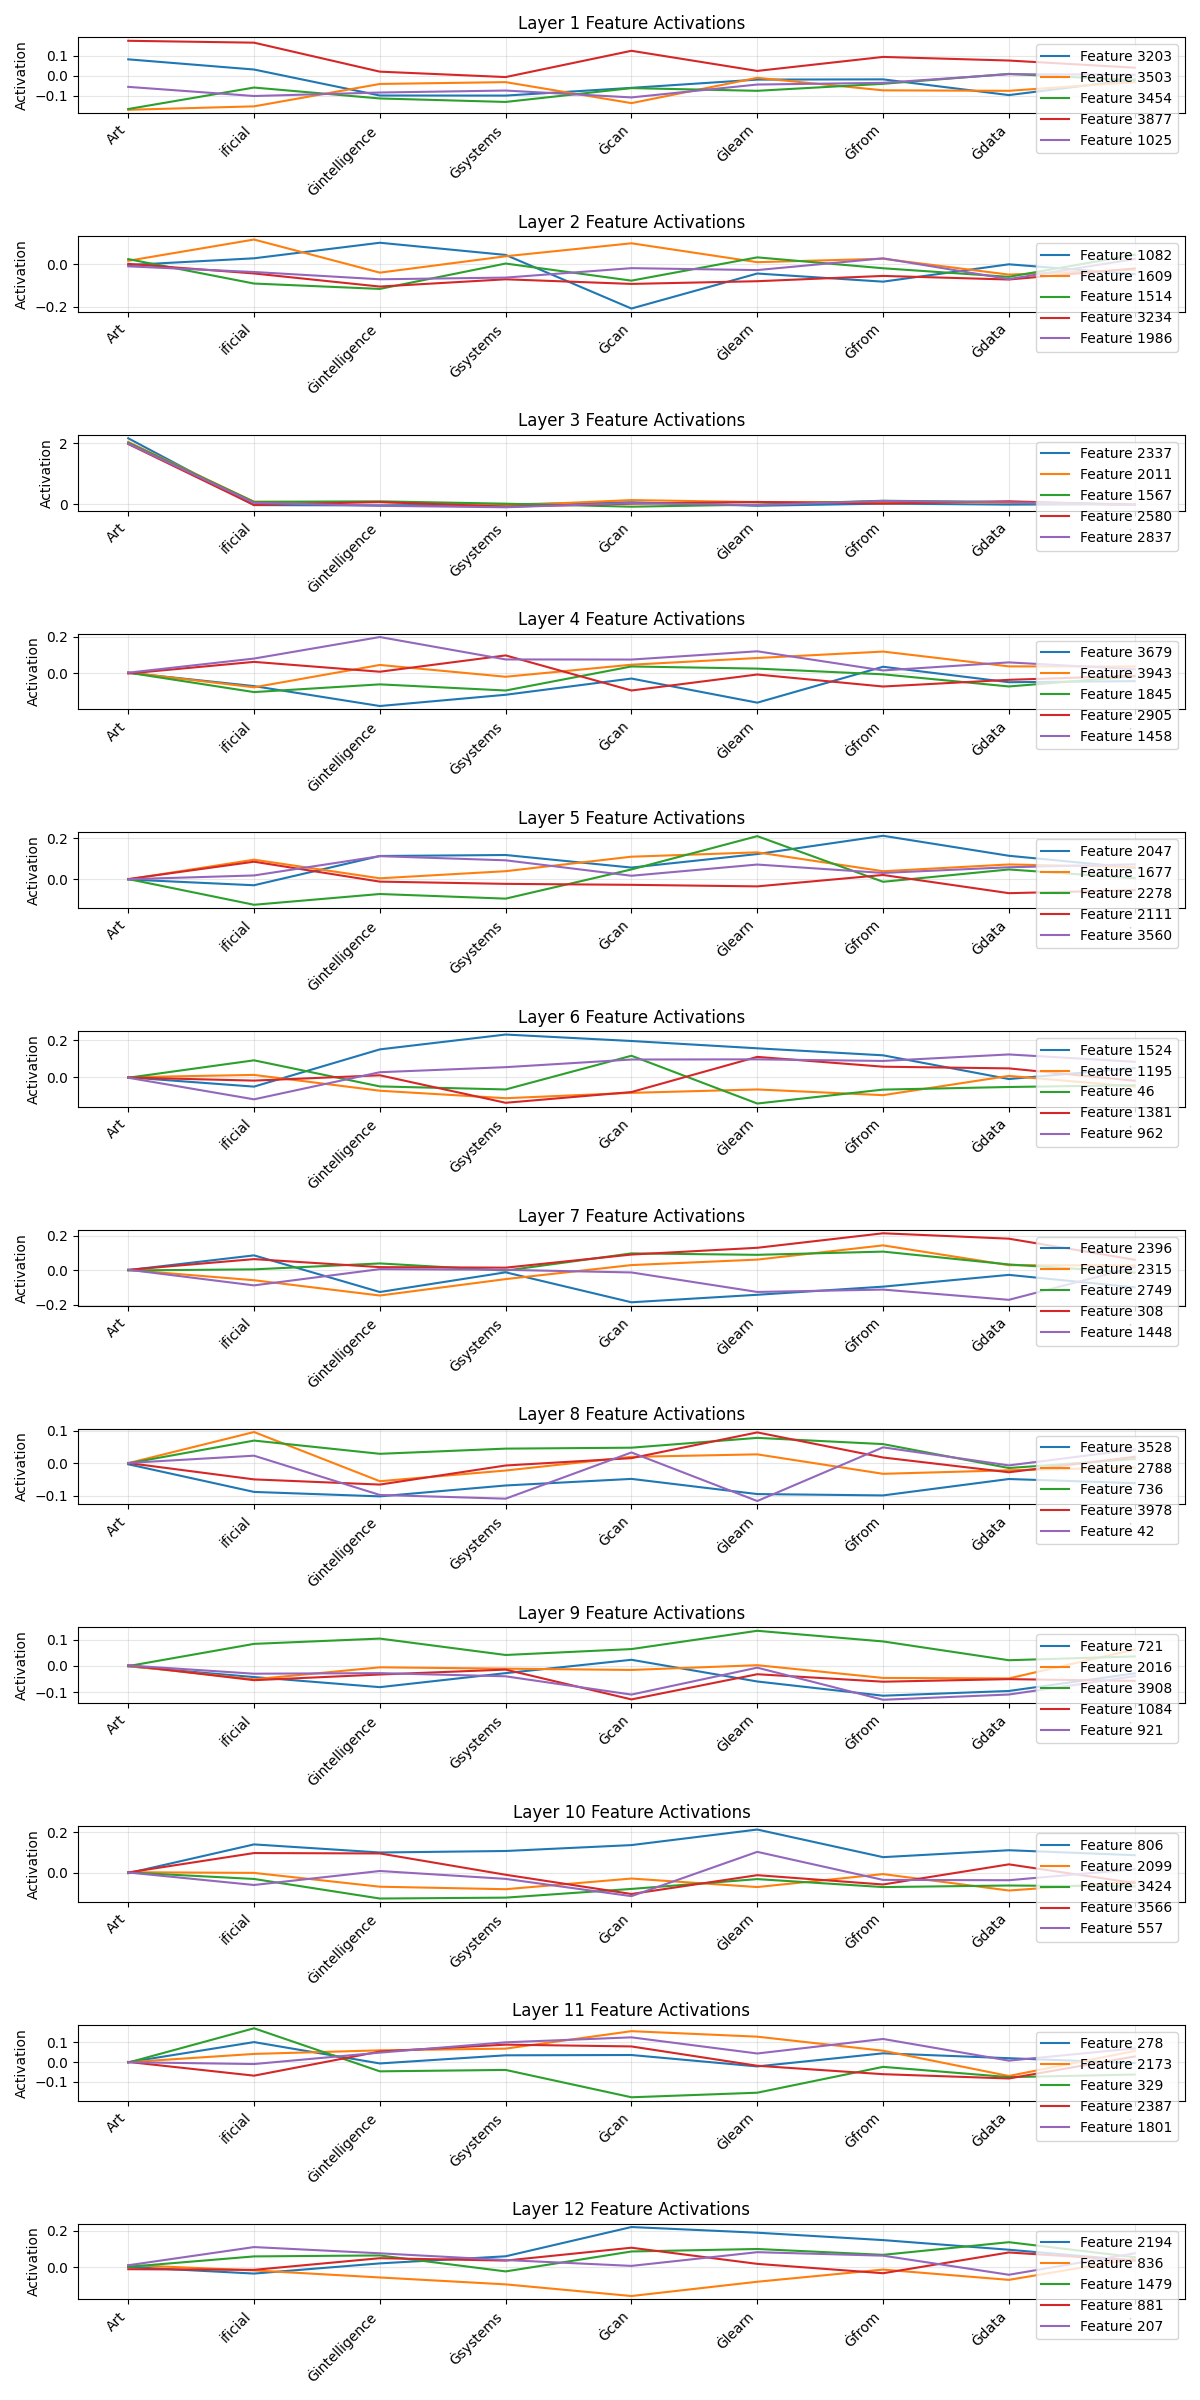
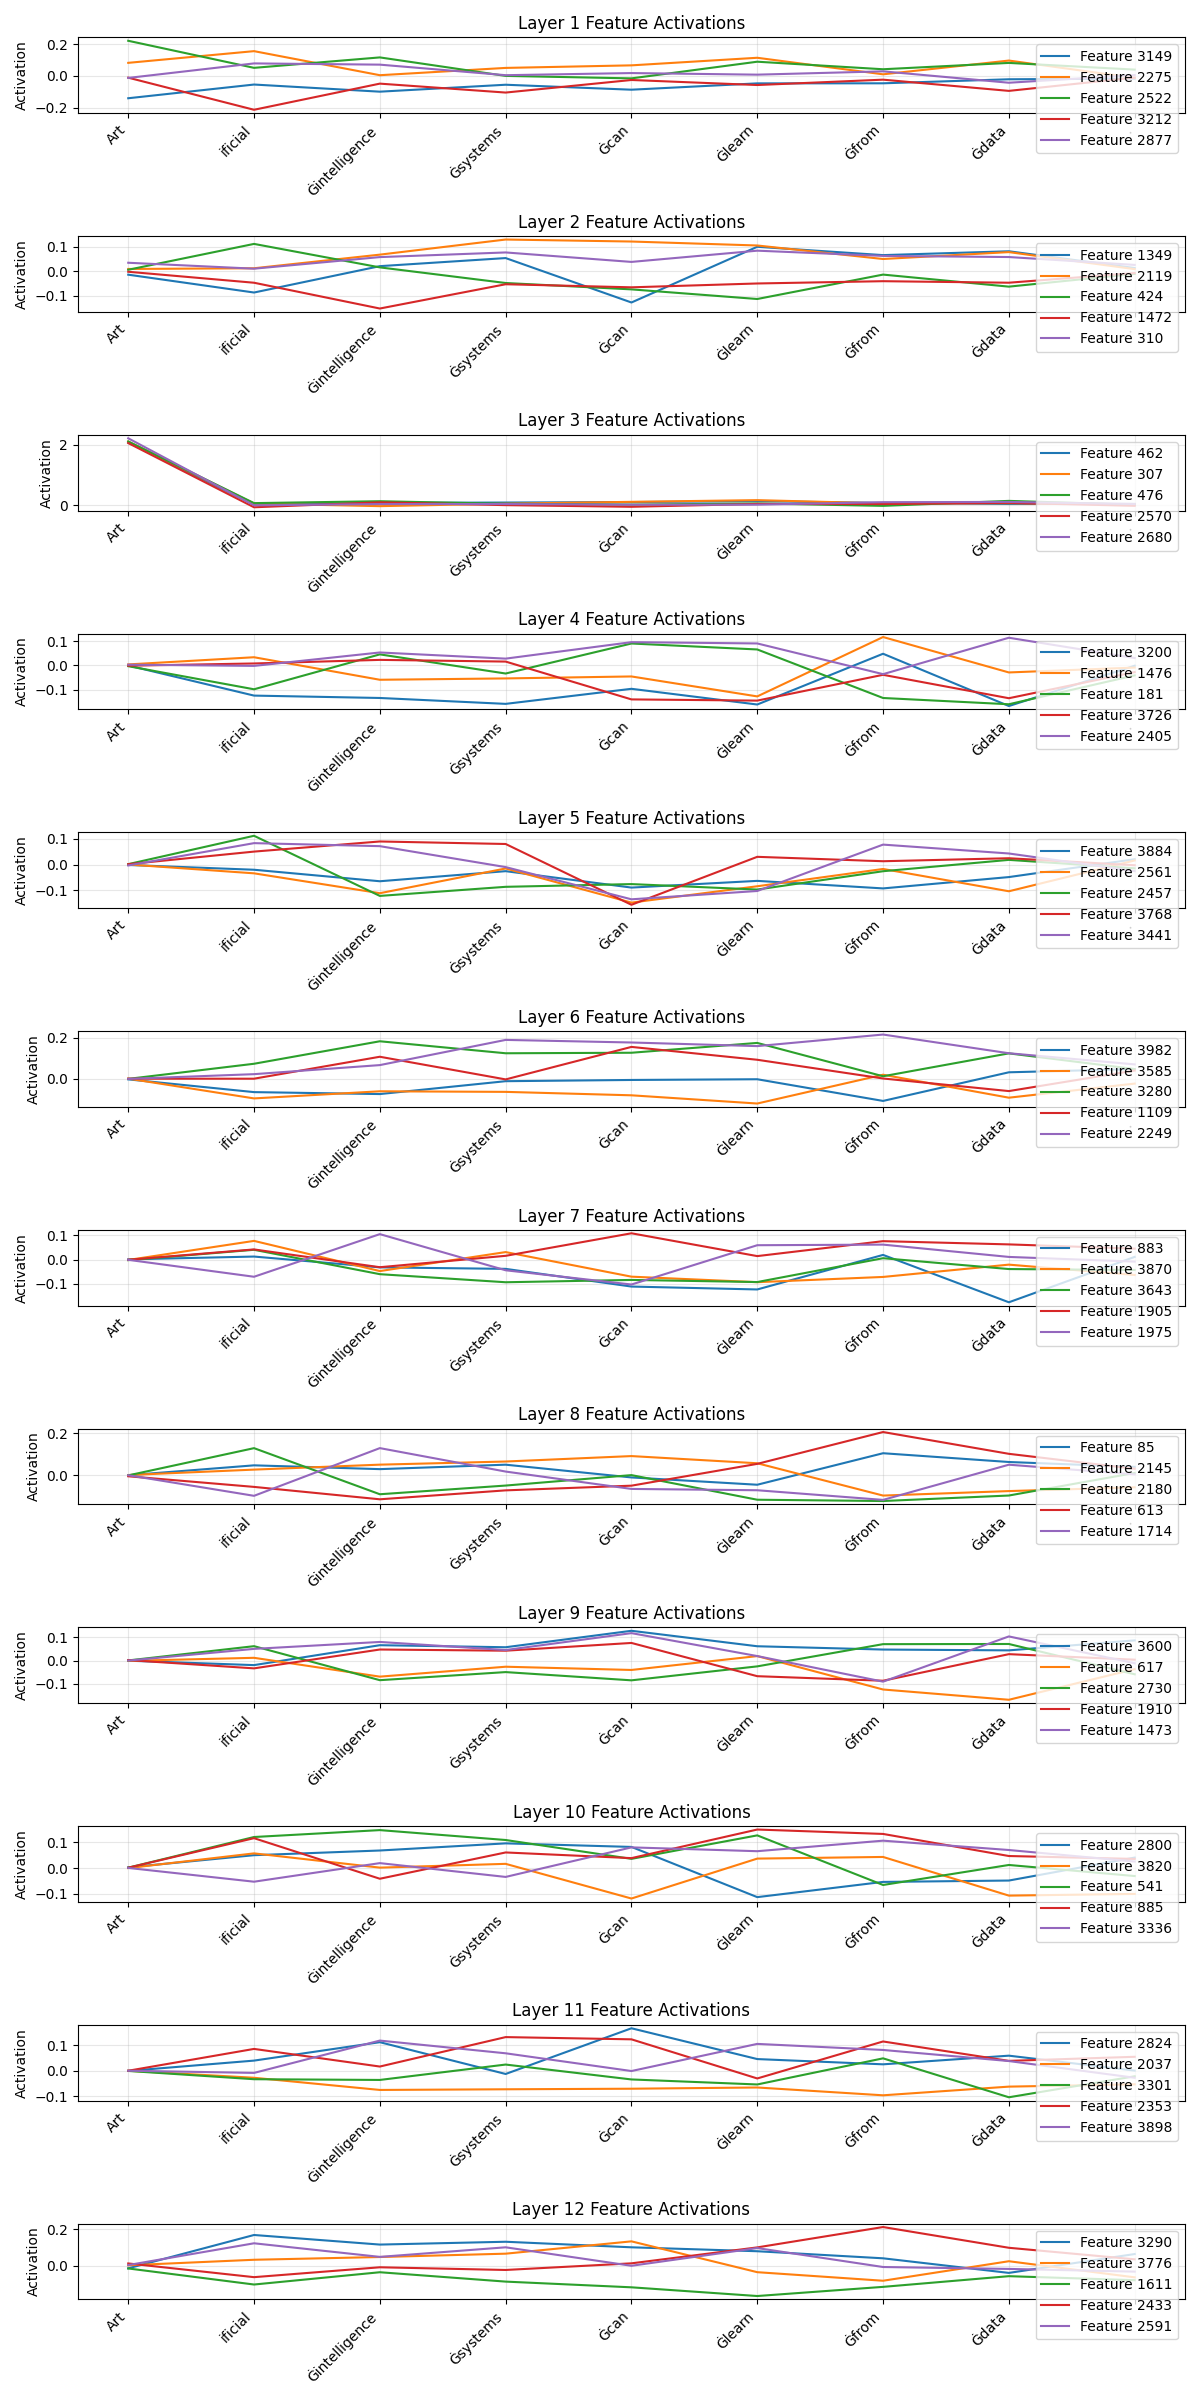
Verbose

diff --git a/open_cross_layer_transcoder.py b/open_cross_layer_transcoder.py
@@ -674,7 +674,9 @@ class ReplacementModel(nn.Module):
             max_length=max_length,
             do_sample=True,
             top_p=0.9,
-            temperature=0.7
+            temperature=0.7,
+            attention_mask=None,
+            pad_token_id=self.tokenizer.eos_token_id
         )
         
         # Decode

diff --git a/example.py b/example.py
@@ -26,7 +26,7 @@ def main():
     # Initialize the cross-layer transcoder
     transcoder = OpenCrossLayerTranscoder(
         model_name="gpt2",  # GPT-2 Small
-        num_features=4000,   # Number of interpretable features
+        num_features=24000,   # Number of interpretable features
         device=device
     )
     
